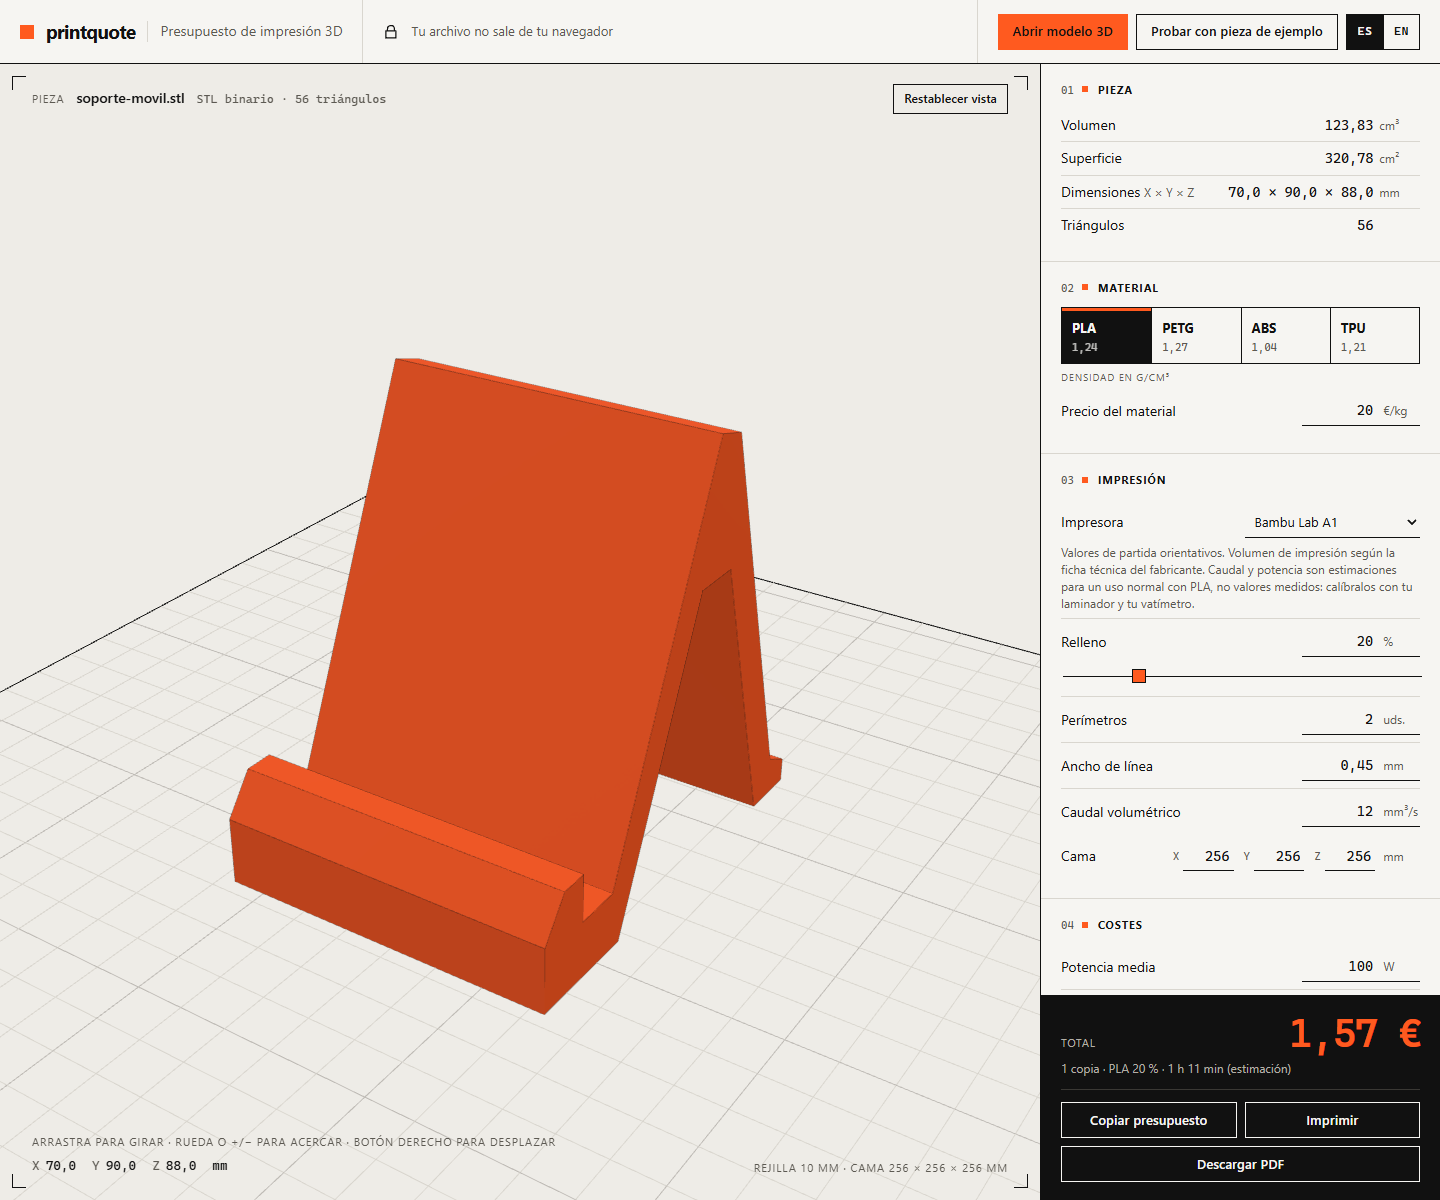
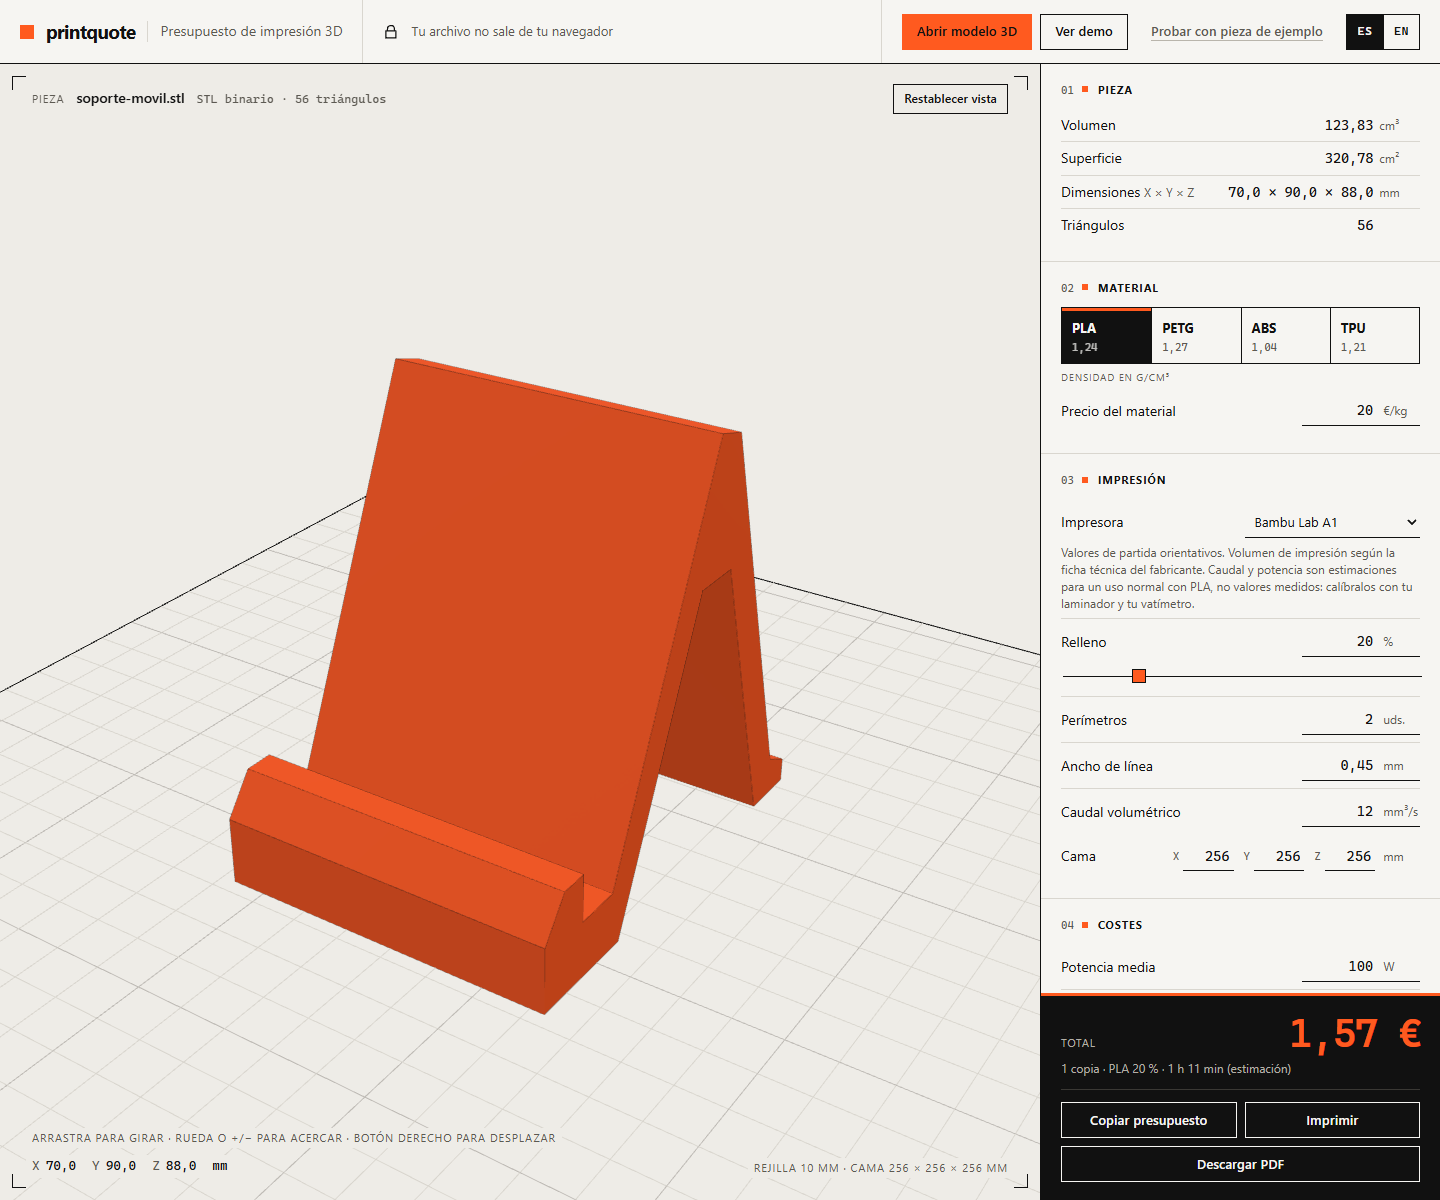
chore: versión 0.6.0, og.png y captura.png con la interfaz actual
Regenera public/og.png y docs/captura.png con scripts/captura.mjs (estaban
desactualizadas: faltaba «Ver demo» y la cabecera nueva). El script de Chrome
admite CHROME_PORT. Versión 0.6.0, CHANGELOG [0.6.0] - 2026-10-01 y contrato
del lote en AGENTS.md.

Agente: builder (Claude Code · Sonnet)

Changed region(s): [[0.625, 0.0, 0.9062, 0.0617], [0.0312, 0.925, 0.375, 0.9558]]

diff --git a/MEMORY.md b/MEMORY.md
@@ -1,13 +1,15 @@
 # MEMORY.md · printquote
-Última actualización: 2026-10-01 por builder (v0.6.0, #40)
+Última actualización: 2026-10-01 por builder (v0.6.0, #43)
 
 ## Estado actual
 
-### v0.6.0 «Lotes» (v0.5.0 ya publicada; especificación en `docs/specs/v0.6.md`; hito v0.6.0; issues #40 lote, #41 texto y PDF, #42 historial, #43 imágenes y versión; una rama y un PR por issue, encadenados: `agent/builder/40-lote` → `41-lote-salida` → `42-lote-historial` → `43-imagenes`)
+### v0.6.0 «Lotes» (PR #44, #45, #47, #48 y el de imágenes y versión, encadenados y pendientes de fusionar en ese orden; `version` 0.6.0 y CHANGELOG `[0.6.0] - 2026-10-01` en el último; v0.5.0 ya publicada; especificación en `docs/specs/v0.6.md`; hito v0.6.0; issues #40 lote, #41 texto y PDF, #42 historial, #43 imágenes y versión; una rama y un PR por issue, encadenados: `agent/builder/40-lote` → `41-lote-salida` → `42-lote-historial` → `43-imagenes`)
 - #40 Lote (rama `agent/builder/40-lote`): hecho. `src/quote/batch.ts` (`BatchPart` = instantánea con `settings`, `stats` y `quote` de `computeQuote`; `computeBatch` suma las líneas ya redondeadas con `roundCents`: sin fórmula propia; `BATCH_MAX` = 50) y `src/ui/batch.ts` (`setupBatch(BatchHost)`: añadir, quitar, vaciar con confirmación, total; foco al «Quitar» siguiente y anuncio). Bloque nuevo **06 Lote** (`<details>`); «Datos del negocio» pasa a 07 y «Presupuestos» a 08. Reutiliza las clases `.history-*` y `.rows`.
 - #41 Lote en texto y PDF (rama `agent/builder/41-lote-salida`): hecho. `buildBatchText` (`text.ts`, comparte `row`/`rule`), `buildBatchDocument` (`document.ts`; extrae `issuerLinesOf` y `taxRows` del PDF de una pieza, que no cambia) y `render.ts`: `QuoteDocument.batch` (tabla de piezas), `batchTable` con cabecera repetida, `newPage`, `BOTTOM`/`BATCH_TOTALS_H` (si el desglose y el total no caben tras la tabla, pasan a otra página) y pie con «Página n de N» si hay más de una (`doc.pageOf`, `{n}`/`{total}` se rellenan al dibujar). Botones «Copiar lote» y «PDF del lote» en el bloque 06; `runPdf` en `app.ts` comparte el estado «ocupado» y el nº de presupuesto con el PDF de una pieza. Sin vista 3D en el PDF del lote. Verificado con PyMuPDF (3 y 34 piezas).
 - #46 SW (rama `agent/builder/46-sw-cache`, encargo de la auditoría de rendimiento del lead): en `src/sw.js` el `install` usa `cache: 'default'` para las URL con `/assets/` (con hash, inmutables) y `reload` para el resto. Ahorra ~177 KB gz de doble descarga en la primera visita. Test en `tests/sw.test.ts` (el entorno falso registra el modo de caché de cada petición) y otro de que una versión nueva instala su caché y borra la anterior. El precalentado del PDF queda descartado (decisión del lead).
 - #42 Lote en el historial (rama `agent/builder/42-lote-historial`): hecho. `HistoryEntry extends HistoryPart` con `parts?` opcional (retrocompatible); `createBatchEntry` (primer nivel = agregado: nombres unidos ≤ 200, volumen y triángulos sumados, medidas máximas, ajustes de la primera pieza, resultado de `computeBatch`); `normalizePart`/`normalizeEntry` (un lote con una pieza rota, vacío o > `BATCH_MAX` se descarta entero); CSV con `flatMap` (una fila por pieza). `ui/history.ts`: `HistoryHost.batch()`, botón «Guardar lote» y `store()` compartido. Un lote guardado **no se puede abrir** (decisión: no se guarda la geometría; restaurarlo queda como mejora).
+- #43 Imágenes y versión (rama `agent/builder/43-imagenes`): `public/og.png` y `docs/captura.png` regenerados con `scripts/captura.mjs` (la interfaz había cambiado: «Ver demo», cabecera, impresora Bambu Lab A1 en la captura); `scripts/chrome.mjs` admite `CHROME_PORT` por si el 9333 está ocupado (otro agente lo usaba). Versión 0.6.0 (`package.json`, lock) y CHANGELOG `[0.6.0] - 2026-10-01` con enlace `v0.5.0...v0.6.0`. La captura del lote (`printquote-v06-lote.png`) se entregó al lead en la carpeta de recursos del informe.
+- Pendiente / ideas: restaurar un lote desde el historial (haría falta guardar la geometría de cada pieza o recalcular con la fórmula actual); editar las copias de una línea; lote en la hoja de impresión; persistir el lote al recargar; sin umbral de tamaño para el lote en el PDF más allá de 50 piezas.
 - Decisiones: el lote vive solo en memoria (YAGNI: para conservarlo, el historial); la línea no se edita (quitar y volver a añadir); los botones Copiar/Imprimir/PDF/Guardar de siempre siguen siendo de la pieza cargada y el lote tiene los suyos (sin «modo» oculto); Imprimir no incluye el lote.
 
 ### v0.5.0 «Demo y pulido» (los dos PR abiertos, pendientes de fusionar #38 y el de la demo en ese orden; `version` 0.5.0 y CHANGELOG `[0.5.0]` ya en el de la demo; especificación en `docs/specs/v0.5.md`; hito v0.5.0; #36 pulido, #37 demo; una rama y un PR por issue, encadenados)
@@ -239,3 +241,4 @@ Documentación en la rama `agent/docs` (PR contra `agent/qa`, se fusiona despué
 - 2026-10-01 builder · Claude Code Sonnet (agent/builder/41-lote-salida): #41 texto copiado y PDF del lote (varias páginas), botones del bloque 06, tests.
 - 2026-10-01 builder · Claude Code Sonnet (agent/builder/46-sw-cache): #46 service worker: assets con hash sin doble descarga al instalar.
 - 2026-10-01 builder · Claude Code Sonnet (agent/builder/42-lote-historial): #42 lote en el historial (`parts`, «Guardar lote», CSV por pieza, tests).
+- 2026-10-01 builder · Claude Code Sonnet (agent/builder/43-imagenes): #43 og.png y captura.png regeneradas, versión 0.6.0, CHANGELOG, AGENTS (contrato del lote), `CHROME_PORT`.

diff --git a/CHANGELOG.md b/CHANGELOG.md
@@ -4,17 +4,21 @@ Todos los cambios relevantes de printquote se anotan aquí. El formato sigue [Ke
 
 ## [Sin publicar]
 
+## [0.6.0] - 2026-10-01
+
+Hito v0.6.0 «Lotes»: presupuesto de pedidos con varias piezas, service worker más ligero e imágenes actualizadas. Especificación en `docs/specs/v0.6.md`.
+
 ### Añadido
 
 - **Lote: presupuesto de varias piezas** (#40): bloque «06 Lote» (plegable) con «Añadir esta pieza» (muestra su importe), una lista con nombre, material, volumen, peso, tiempo, copias e importe de cada línea, «Quitar» y «Vaciar lote» (dos clics), y el **total del lote**. Cada línea conserva los ajustes con que se añadió y usa `computeQuote` (`src/quote/batch.ts` solo suma líneas ya redondeadas a céntimos, como una factura). Hasta 50 piezas; vive en memoria. Foco y anuncios accesibles, sin desborde a 320 px.
 - **Lote en el texto copiado y en el PDF** (#41): «Copiar lote» (texto con todas las piezas, su importe y el desglose del lote) y «PDF del lote» (tabla de piezas, desglose del lote y el IVA sobre la suma, sin vista 3D). El PDF pasa a **varias páginas** cuando no caben todas las piezas (cabecera de la tabla repetida y «Página n de N»). `buildBatchDocument` y `buildBatchText` reutilizan las utilidades de una pieza; el PDF de una pieza no cambia.
-
 - **Lote en el historial** (#42): «Guardar lote» (bloque 08) guarda una entrada con cada pieza, sus ajustes y su resultado (`parts`) y el agregado del lote en el primer nivel; las entradas antiguas se leen igual y un lote con una pieza rota, vacío o de más de 50 piezas se descarta al leer. Se lista como «Lote de N piezas» (sin «Abrir»: no se guarda la geometría) y se borra como el resto. El CSV lleva **una fila por pieza**. El enlace para compartir no cambia.
 
 ### Cambiado
 
 - **Service worker: menos descarga en la primera visita** (#46): al instalar, los `assets/*` (con hash en el nombre, inmutables) se precachean con `cache: 'default'` en vez de `reload`, así salen de la caché HTTP en lugar de pedirse dos veces (index, CSS y visor, ~177 KB gz de más). `index.html`, el manifiesto, el favicon, los iconos y la pieza de ejemplo siguen con `reload`. Una versión nueva se invalida igual que antes (caché con el nombre de la versión; las antiguas se borran al activar), con test.
 - «Datos del negocio» pasa a ser el bloque 07 y «Presupuestos», el 08.
+- **Imágenes actualizadas** (#43): `public/og.png` (vista previa al compartir el enlace) y `docs/captura.png` (README) regeneradas con `scripts/captura.mjs` con la interfaz actual (cabecera con «Ver demo», bloque «06 Lote»…): estaban desactualizadas desde v0.4.0.
 
 ## [0.5.0] - 2026-10-01
 
@@ -97,7 +101,8 @@ Primera versión: el MVP.
 - **Revisión de QA** (PR #2): parser ASCII byte a byte, soldado de vértices con tolerancia, lectura en un Web Worker, three.js cargado bajo demanda, regiones vivas accesibles, Open Graph y tests de interfaz (57 → 132 tests).
 - **Documentación** (PR #4): guía de uso (`docs/USO.md`) y guía de contribución (`CONTRIBUTING.md`).
 
-[Sin publicar]: https://github.com/BertMarti/printquote/compare/v0.5.0...HEAD
+[Sin publicar]: https://github.com/BertMarti/printquote/compare/v0.6.0...HEAD
+[0.6.0]: https://github.com/BertMarti/printquote/compare/v0.5.0...v0.6.0
 [0.5.0]: https://github.com/BertMarti/printquote/compare/v0.4.0...v0.5.0
 [0.4.0]: https://github.com/BertMarti/printquote/compare/v0.3.0...v0.4.0
 [0.3.0]: https://github.com/BertMarti/printquote/compare/v0.2.0...v0.3.0

diff --git a/AGENTS.md b/AGENTS.md
@@ -49,6 +49,15 @@ Recorrido guiado de ~13 s (`DEMO_END_MS`) que dirige `src/ui/demo.ts`. El guion 
 - **Contrato con la aplicación** (`DemoHost` en `demo.ts`; la implementa `app.ts`): `begin()`, `apply(patch | 'restore')`, `spin(on)` (`Viewer.setAutoRotate`), `end()` y `announce()`. `startApp(demoScale)` acepta una escala de tiempo solo para los tests de integración.
 - Texto en `demo.*` (es/en). Funciona sin conexión: la pieza de ejemplo está en el precaché de la PWA.
 
+## Lote («06 Lote»)
+Presupuesto de pedidos con varias piezas. Contrato:
+- **Sin fórmula propia**: cada línea es `computeQuote(stats, settings)`; `src/quote/batch.ts` solo suma líneas ya redondeadas a céntimos (`computeBatch`, como una factura) y el IVA se aplica **una vez** sobre la suma (`computeTax`).
+- **Instantánea**: la línea (`BatchPart`) conserva los ajustes con que se añadió; no se edita (quitar y volver a añadir). Máximo `BATCH_MAX` = 50. Solo en memoria.
+- **Botones explícitos**: «Copiar presupuesto», «Imprimir», «Descargar PDF» y «Guardar este presupuesto» son de la pieza cargada; el lote tiene «Copiar lote», «PDF del lote» (sin vista 3D, con paginación) y «Guardar lote» (historial). Imprimir no incluye el lote. No hay un «modo» oculto.
+- **Historial**: `HistoryEntry.parts?` (retrocompatible); un lote guardado no se puede abrir (no guarda la geometría) y el CSV lleva una fila por pieza.
+- El enlace para compartir **nunca** lleva el lote.
+- `src/ui/batch.ts` recibe un `BatchHost` (`current`, `announce`, `changed`) y no importa `app.ts`; la lista reutiliza las clases `.history-*` y `.rows`. Tras quitar, el foco pasa al siguiente «Quitar» o a «Añadir esta pieza».
+
 ## Equipo de agentes y ramas
 Los tres proyectos se desarrollan en paralelo con un equipo de agentes. El trabajo está **guiado por issues de un hito** (p. ej. v0.2.0) y **todo entra en `main` mediante pull request**, que fusiona Alberto.
 
